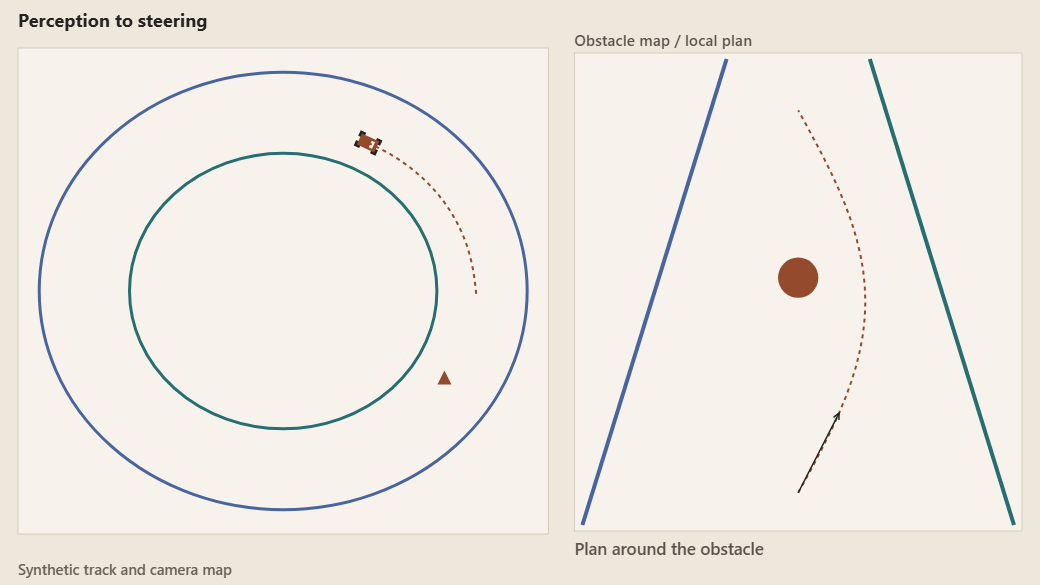
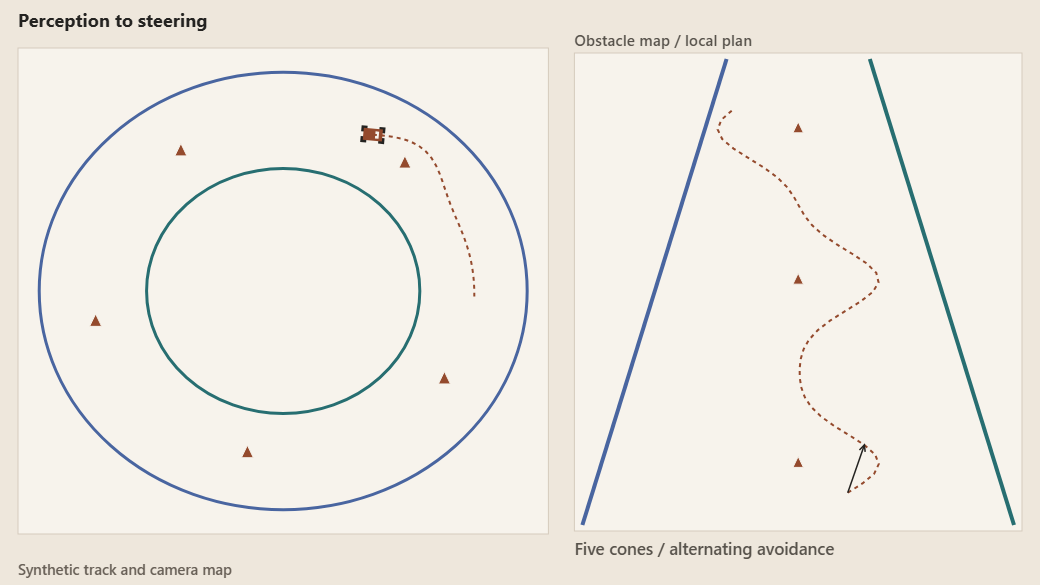
Save racer background refinements and WSL build support

diff --git a/assets/js/figures/rc-racer.js b/assets/js/figures/rc-racer.js
@@ -2,18 +2,18 @@
 (function(){
   'use strict';var D=Fig.diagram;
   Fig.register('rc-racer',{
-    config:{mobileAspect:.9,stillAt:4},
-    setup:function(f){f.state.cone=true;f.button('Remove the cone',function(b){f.state.cone=!f.state.cone;b.textContent=f.state.cone?'Remove the cone':'Add the cone';f.redraw();});},
+    config:{mobileAspect:.9,stillAt:4,cones:[{phase:.09,side:1},{phase:.28,side:-1},{phase:.47,side:1},{phase:.66,side:-1},{phase:.86,side:1}]},
+    setup:function(f){f.state.cone=true;f.button('Remove the cones',function(b){f.state.cone=!f.state.cone;b.textContent=f.state.cone?'Remove the cones':'Add the cones';f.redraw();});},
     reset:function(){},
     draw:function(f,t){
       var c=f.ctx,C=f.c,narrow=f.w<480;D.start(f,'Perception to steering');
       var top=48,trackH=narrow?f.h*.42:f.h-99,trackW=narrow?f.w-36:f.w*.51;
       var x=18,y=top,w=trackW,h=trackH;
       D.box(f,x,y,w,h,C.line,C.bg);
-      function path(q,base){var a=q*Math.PI*2,d=((q-.09+.5)%1+1)%1-.5,k=1+(!base&&f.state.cone?.14*Math.exp(-d*d/.003):0);return {x:x+w*.5+Math.cos(a)*w*.36*k,y:y+h*.5+Math.sin(a)*h*.34*k};}
-      [1,.63].forEach(function(k,i){c.beginPath();c.ellipse(x+w*.5,y+h*.5,w*.46*k,h*.45*k,0,0,Math.PI*2);c.strokeStyle=i?C.signal:C.third;c.lineWidth=3;c.stroke();});
-      var cone=path(.09,true);
-      if(f.state.cone){c.beginPath();c.moveTo(cone.x,cone.y-9);c.lineTo(cone.x-7,cone.y+5);c.lineTo(cone.x+7,cone.y+5);c.closePath();c.fillStyle=C.accent;c.fill();}
+      function path(q,base){var a=q*Math.PI*2,k=1;if(!base&&f.state.cone)f.cfg.cones.forEach(function(cone){var d=((q-cone.phase+.5)%1+1)%1-.5;k+=cone.side*.13*Math.exp(-d*d/.0016);});return {x:x+w*.5+Math.cos(a)*w*.36*k,y:y+h*.5+Math.sin(a)*h*.34*k};}
+      function drawCone(p,size){c.beginPath();c.moveTo(p.x,p.y-size);c.lineTo(p.x-size*.75,p.y+size*.55);c.lineTo(p.x+size*.75,p.y+size*.55);c.closePath();c.fillStyle=C.accent;c.fill();c.strokeStyle=C.bg;c.lineWidth=1;c.stroke();}
+      [1,.56].forEach(function(k,i){c.beginPath();c.ellipse(x+w*.5,y+h*.5,w*.46*k,h*.45*k,0,0,Math.PI*2);c.strokeStyle=i?C.signal:C.third;c.lineWidth=3;c.stroke();});
+      if(f.state.cone)f.cfg.cones.forEach(function(cone){drawCone(path(cone.phase,true),narrow?5:8);});
       var q=(t/12+.49)%1,car=path(q),next=path(q+.01);D.car(f,car.x,car.y,Math.atan2(next.y-car.y,next.x-car.x),narrow?.8:1.2);
       var planned=[];for(var i=0;i<27;i++){var p=path(q+i*.007);planned.push(p);}D.line(f,planned,C.accent,2,true);
       var px=narrow?18:x+w+26,py=narrow?top+h+30:top+5,pw=narrow?f.w-36:f.w-px-18,ph=narrow?f.h-py-25:h-8;
@@ -22,10 +22,11 @@
       // Camera-space boundaries widen toward the vehicle, not a race simulation.
       D.line(f,[{x:px+pw*.34,y:py+6},{x:px+8,y:py+ph-6}],C.third,4);
       D.line(f,[{x:px+pw*.66,y:py+6},{x:px+pw-8,y:py+ph-6}],C.signal,4);
-      if(f.state.cone)D.dot(f,px+pw*.5,py+ph*.47,Math.max(5,pw*.045),C.accent);
-      var curve=[];for(i=0;i<=24;i++){var u=i/24;curve.push({x:px+pw*(.5+(f.state.cone?.15:0)*Math.sin(u*Math.PI)),y:py+ph*(.92-u*.80)});}D.line(f,curve,C.accent,2,true);
+      var ahead=f.state.cone?f.cfg.cones.map(function(cone){return {distance:((cone.phase-q)%1+1)%1,side:cone.side};}).filter(function(cone){return cone.distance<.48;}):[];
+      ahead.forEach(function(cone){drawCone({x:px+pw*.5,y:py+ph*(.92-cone.distance/.48*.8)},narrow?4:7);});
+      var curve=[];for(i=0;i<=40;i++){var u=i/40,offset=0;ahead.forEach(function(cone){var d=u-cone.distance/.48;offset+=cone.side*.18*Math.exp(-d*d/.012);});curve.push({x:px+pw*(.5+offset),y:py+ph*(.92-u*.80)});}D.line(f,curve,C.accent,2,true);
       D.arrow(f,curve[0],curve[5],C.ink);
-      if(!narrow)D.text(f,f.state.cone?'Plan around the obstacle':'Clear corridor',px,py+ph+24,C.ink2,12);
+      if(!narrow)D.text(f,f.state.cone?'Five cones / alternating avoidance':'Clear corridor',px,py+ph+24,C.ink2,12);
       D.text(f,'Synthetic track and camera map',18,f.h-10,C.ink3,10.5);
     }
   });

diff --git a/assets/css/site.css b/assets/css/site.css
@@ -14,3 +14,5 @@ nav a[aria-current="location"]{color:var(--accent);text-decoration:underline;tex
 .preview-link{display:block;cursor:pointer}.preview-link:hover{outline:1px solid var(--accent);outline-offset:3px}
 
 .fig-input-group button[aria-pressed="true"]{background:var(--accent-soft);border-color:var(--accent);color:var(--ink)}
+
+.project-story{padding-block:3rem 5rem}.back-link{display:inline-block;font-size:.88rem;margin-bottom:2rem}.story-heading{max-width:54rem}.story-heading h1{font-size:clamp(2.6rem,5vw,4.8rem);margin-bottom:1.5rem}.story-summary{font-size:1.2rem;max-width:50ch}.story-preview{margin:3rem 0;max-width:60rem}.story-preview img{width:100%;height:auto}.story-body{max-width:65ch}.story-body h2,.story-gallery h2{font-size:clamp(1.8rem,3vw,2.3rem);margin:2.8rem 0 1rem}.story-body p{margin-bottom:1.2rem}.story-gallery{margin-top:3rem;border-top:1px solid var(--line);max-width:60rem}.story-gallery figure{margin:2rem 0}.story-gallery img{width:100%;height:auto}

diff --git a/assets/js/site.js b/assets/js/site.js
@@ -3,7 +3,8 @@
   var links = Array.from(header.querySelectorAll('nav a'));
   var sections = links.map(function(link) { return document.getElementById(link.hash.slice(1)); });
   function updateLocation() {
-    var edge = header.getBoundingClientRect().bottom + 48, current = null;
+    var edge = header.getBoundingClientRect().bottom + 48;
+    var current = document.querySelector('.project-story') ? links.findIndex(function(link){return link.hash === '#projects';}) : null;
     sections.forEach(function(section, index) { if(section && section.getBoundingClientRect().top <= edge) current = index; });
     if (Math.ceil(window.scrollY + window.innerHeight) >= document.documentElement.scrollHeight - 2) current = sections.length - 1;
     links.forEach(function(link, index) { if(index === current) link.setAttribute('aria-current','location'); else link.removeAttribute('aria-current'); });

diff --git a/_layouts/base.html b/_layouts/base.html
@@ -3,7 +3,7 @@
 <head>
 <meta charset="utf-8"><meta name="viewport" content="width=device-width, initial-scale=1">
 <title>{% if page.title %}{{ page.title | escape }} ? {% endif %}{{ site.title | escape }}</title>
-<meta name="description" content="{{ site.description | escape }}">
+<meta name="description" content="{{ page.description | default: site.description | escape }}">
 <meta name="color-scheme" content="light dark">
 {% if site.url != '' %}<link rel="canonical" href="{{ page.url | absolute_url }}">{% endif %}
 <link rel="icon" href="{{ '/assets/favicon.svg' | relative_url }}" type="image/svg+xml">

diff --git a/scripts/check-output.py b/scripts/check-output.py
@@ -40,3 +40,26 @@ for video in ['https://www.youtube.com/watch?v=fXM8YLXXC4w','https://www.youtube
  assert video in page.urls,f'Missing supplied demo: {video}'
 assert (root/'404.html').is_file()
 print(f'PASS: {root}; {len(page.urls)} local/external URLs inspected; all sections, IDs, local resources and exclusions valid')
+
+# Standalone background pages must work with either hosting prefix too.
+parsed = {}
+for html in root.rglob('*.html'):
+ document = Page(); document.feed(html.read_text(encoding='utf-8'))
+ assert len(document.ids) == len(set(document.ids)), f'Duplicate IDs: {html}'
+ parsed[html.resolve()] = document
+for html, document in parsed.items():
+ for url in document.urls:
+  u = urlsplit(url)
+  if u.scheme or u.netloc: continue
+  if not u.path: target = html
+  else:
+   assert u.path.startswith(base+'/'), f'Wrong subpath in {html}: {url}'
+   target = root / unquote(u.path[len(base):].lstrip('/'))
+   if target.is_dir(): target = target/'index.html'
+   assert target.is_file(), f'Missing local URL in {html}: {url}'
+  if u.fragment and target.resolve() in parsed:
+   assert unquote(u.fragment) in parsed[target.resolve()].ids, f'Missing anchor in {html}: {url}'
+assert (root/'projects/rc-racer/index.html').is_file()
+assert (root/'projects/baseball-catcher/index.html').is_file()
+assert not any('drbenham.website' in url for document in parsed.values() for url in document.urls)
+print(f'PASS: local resources and cross-page anchors in {len(parsed)} generated HTML pages')

diff --git a/README.md b/README.md
@@ -27,7 +27,7 @@ No Node build or frontend framework is required. Generated `_site`, `_site-subpa
 
 - `_data/profile.yml`: introduction, biography, portrait path, resume path, social links (`title`, `url`) and contact URL (including `mailto:` if appropriate). Blank values show honest placeholders.
 - `research`, `experience`, `education`, `awards`, `skills` are lists of records with `title`, optional `date`, and `description`. Populating them replaces placeholders without template changes. Preserve the section list and IDs to retain navigation/deep links.
-- `_projects`, `_publications`: one Markdown document per work, ordered newest first by `year`, with numeric `order` breaking ties. Collections render into the homepage, with no standalone work pages.
+- `_projects`, `_publications`: one Markdown document per work, ordered newest first by `year`, with numeric `order` breaking ties. Collections render into the homepage. The racer additionally has a standalone background page under `projects/rc-racer.md`.
 - Work metadata preserves the reference field names: `authors`, `venue`, `year`, `link`, `link_label`, `links` (`text`, `url`, `note`), `figure` (fallback path), `fig`, `fig_aspect`, `fig_label`, `fig_caption`, `fig_illustrative`, `about` or `abstract`, and `first_author`. Added fields are `order` and `summary` (a short project-level description).
 - Longer prose can go in the Markdown body. Keep author order and equal-contribution markers. Emphasize Ashton without dropping shared credit. Do not invent individual roles or personal credentials.
 - Work deep links: `#work-bellhop`, `#work-wilie`, `#work-ghost-modulation`, `#work-sss`; disclosure links start with `#details-` and the same slug.
@@ -69,6 +69,16 @@ All new figures have exported, checked-in PNG fallback images under `assets/figu
 The hand figure uses a single connected open-hand mesh with tapered, articulated fingers, a thumb, palm and wrist. `scripts/generate-hand-mesh.py` creates `assets/js/figures/hand-mesh.js` using only Python's standard library, and validates watertight edges and a single connected component. This is original illustrative geometry; it is not a scan or the report's recovered model.
 
 The Canvas renderer interpolates vertex lighting through a reusable depth buffer, avoiding visible polygon seams. Mesh data is loaded once, only when the hand figure is present. `node scripts/browser-hand.cjs` checks the four stages at 375/768/1440 in both themes, repeated controls, reduced motion and the single local Report link. Add `--write-fallback` to refresh only the hand's PNG after an intentional mesh change. The external Original report resource was removed at the owner's request; the local PDF is retained.
+
+## Racer background and image gallery
+
+`projects/rc-racer.md` is the editable draft at `/projects/rc-racer/`, using `_layouts/project-background.html`. Its homepage resource link opens the local page, while the existing preview/title still opens the interactive disclosure. The background page returns to the correct homepage project. The demo remains a normal external link and was not opened during this revision. All external Derek-site background links were removed according to the owner's preference.
+
+Five configured cones in `rc-racer.js` make the schematic path alternate inside/outside; the local planning panel shows upcoming obstacles. The single toggle removes/adds all cones. The static racer PNG was regenerated.
+
+Original source access now works through curl. Five original images are stored in `assets/images/rc-racer/`, with `path`, `width`, `height`, `alt` and `caption` in `_data/rc_racer.yml`. The gallery keeps native image sizes, while the animation still remains explicitly illustrative. The expanded draft covers perception, planning, recovery and source-reported race results; Derek's individual planning work stays credited. The owner's individual-role details and remaining teammate name still need editing. Fresh Jekyll/browser verification of the image import is pending in the current Linux environment; see VALIDATION.md.
+
+`node scripts/browser-racer.cjs` verifies the five-cone toggle, repeated controls, local background navigation, return link, media preferences and six viewport/theme combinations. `--write-fallback` intentionally refreshes the racer PNG only. Output checks cover every generated HTML page and its cross-page anchors at root and subpath prefixes.
 
 
 ## Catcher background and two-model figure

diff --git a/IMPLEMENTATION_PLAN.md b/IMPLEMENTATION_PLAN.md
@@ -170,6 +170,25 @@ All four new project entries and original Canvas explanations are implemented, b
 
 The user requested a more recognizable hand mesh and removal of the external Original report link. Replace the initial fist assembled from ellipsoids with one continuous illustrative open hand, including palm, four fingers, thumb and wrist. Preserve the four-stage pipeline and explain that it is designed geometry rather than a recovered model. Use smooth surface shading, update the static hand fallback, and retain only the local Report resource. This revision is authorized for local implementation and a checkpoint commit under the standing commit instruction.
 
+### Racer expansion and local background page
+
+The user authorized more cones in the racer animation and a separate local project-background page with a first-draft account and original imagery from Derek's source, to be refined later. This supersedes the v1 restriction against standalone project pages for this project. Keep the homepage work entry and disclosure, add `/projects/rc-racer/`, replace only the racer's external Project background resource with that local URL, and preserve the owner's YouTube demo link without opening it.
+
+Five cones and alternating avoidance make the schematic track more varied. Original image import is blocked: the authorized source request to `https://drbenham.website/ecen_racer` returns "Unable to connect to the remote server." Do not bypass this restriction. The background page uses the already retrieved project description for a limited paraphrased draft, an explicitly illustrative local animation still, and a visible original-image placeholder. `_data/rc_racer.yml` can hold local image paths, alt text and captions when the source images are available. No personal contribution claims are copied from Derek's first-person account.
+
+External reference access is now limited to `https://kitras.dev` and `https://drbenham.website`. Other external sites/repositories require user permission before access. Existing external resource links may remain as links without being accessed. No push or publication authorized.
+
+The user's preference against linking to Derek's website also removes the remaining external background links on Visual Odometry and Robot Baseball Catcher. Their demo links and project content are retained; no new background pages are created for those works in this revision.
+
+
+### Racer source import — curl access restored
+
+On November 1, 2026, the owner authorized curl as a fallback after the web retrieval tool failed. `curl -vL --max-time 15 https://drbenham.website/ecen_racer -o /tmp/ecen_racer.html` returned HTTP 200. The full page was read and its five original project images downloaded from the same authorized host into `assets/images/rc-racer/`. This supersedes the earlier source-access blocker. The local background page now describes perception, planning, recovery and source-reported team race results. Derek's individually described planning work remains explicitly credited; Ashton's individual role and the third teammate's name remain pending. No analytics, external site styling or unrelated images were imported.
+
+Image formats/dimensions and local gallery paths were checked; the gallery preserves native image sizes and descriptive alternatives. The browser check now expects five decoded original images instead of an empty placeholder. Fresh strict Jekyll builds and browser review are pending in this Linux session: required gems are absent, and Windows Ruby/Chrome fail to launch through WSL (`UtilBindVsockAnyPort: socket failed`). Previous Windows verification does not certify this update. No push or publication performed.
+
+Additional local checks passed: the actual Liquid layout and Kramdown Markdown render at root and `/portfolio-check` using locally available pure-Ruby libraries; all five original image URLs are correctly prefixed and the empty-gallery placeholder is absent. PNG decoding, recorded dimensions, alt text/captions and browser-check JavaScript syntax pass. This isolated render is not a full Jekyll build or browser review.
+
 
 ### Approved catcher refinement and local background
 

diff --git a/VALIDATION.md b/VALIDATION.md
@@ -49,6 +49,22 @@ The first-draft disconnected-looking ellipsoids were replaced with one continuou
 
 All four stages pass at 375/768/1440 in both themes (24 captures), with no page overflow or JavaScript errors. Selected mobile/desktop captures were visually reviewed. Reopening/restarting does not duplicate controls, and reduced motion shows the still at 13 seconds. Average measured redraw was approximately 5 ms on this host in the dedicated browser check; this is a local timing sample, not a device-wide performance guarantee. A refreshed hand PNG supplies the static fallback. Root/subpath strict builds and URL checks pass. The resource list contains only the local PDF link; the external Original report link is absent. Other projects and their assets were not changed.
 
+## Racer cones and background page
+
+- Five cones, alternating avoidance, upcoming-cone map, plural add/remove control and refreshed racer fallback implemented. Repeated disclosure/restart cycles keep three buttons without duplication.
+- Local `/projects/rc-racer/` draft replaces the external racer background destination; remaining external background links to Derek's site were also removed. Existing YouTube demo destinations remain unchanged and were not accessed. The local page retains team credit, an illustrative still, body sections and a configurable empty gallery.
+- Headless Chrome checks pass at 375/768/1440 in both themes for animation and background-page overflow, navigation to the local page and back to the correct project, no JavaScript errors and reduced-motion stills. Screenshots of the racer and page were visually inspected. Root/subpath strict builds and local-resource/anchor checks cover all three generated HTML pages (home, background, 404).
+- Original-image import remains incomplete because the authorized source download failed: `Invoke-WebRequest https://drbenham.website/ecen_racer` -> "Unable to connect to the remote server." The page explicitly leaves original project images to be added. No bypass, unapproved host/repository access or fabricated source photographs. Source-based prose uses the previously retrieved description and does not assign Derek's individual work to Ashton.
+
+
+### Racer source import — curl access restored
+
+On November 1, 2026, the owner authorized curl as a fallback after the web retrieval tool failed. `curl -vL --max-time 15 https://drbenham.website/ecen_racer -o /tmp/ecen_racer.html` returned HTTP 200. The full page was read and its five original project images downloaded from the same authorized host into `assets/images/rc-racer/`. This supersedes the earlier source-access blocker. The local background page now describes perception, planning, recovery and source-reported team race results. Derek's individually described planning work remains explicitly credited; Ashton's individual role and the third teammate's name remain pending. No analytics, external site styling or unrelated images were imported.
+
+Image formats/dimensions and local gallery paths were checked; the gallery preserves native image sizes and descriptive alternatives. The browser check now expects five decoded original images instead of an empty placeholder. Fresh strict Jekyll builds and browser review are pending in this Linux session: required gems are absent, and Windows Ruby/Chrome fail to launch through WSL (`UtilBindVsockAnyPort: socket failed`). Previous Windows verification does not certify this update. No push or publication performed.
+
+Additional local checks passed: the actual Liquid layout and Kramdown Markdown render at root and `/portfolio-check` using locally available pure-Ruby libraries; all five original image URLs are correctly prefixed and the empty-gallery placeholder is absent. PNG decoding, recorded dimensions, alt text/captions and browser-check JavaScript syntax pass. This isolated render is not a full Jekyll build or browser review.
+
 
 ## Catcher models and background page — WSL verification
 

diff --git a/_projects/rc-racer.md b/_projects/rc-racer.md
@@ -8,8 +8,8 @@ figure_family: engineering
 figure: assets/figures/rc-racer.png
 fig: rc-racer
 fig_aspect: 16/9
-fig_label: An RC car navigates colored track boundaries and a cone. A camera view becomes an obstacle map with a planned steering path.
-fig_caption: '<strong>From a camera frame to a steering decision.</strong> Colored boundaries and a cone are segmented into an obstacle map. A clearance-based path bends around the cone as the car follows a schematic track. Toggle the cone to compare the plans. This figure explains the team project at a high level; it is not the original controller, recorded race or a performance benchmark.'
+fig_label: An RC car navigates colored track boundaries and five cones. A camera view becomes an obstacle map with a planned steering path.
+fig_caption: '<strong>From a camera frame to a steering decision.</strong> Colored boundaries and five cones are segmented into an obstacle map. The schematic path alternates around the obstacles, and the local view shows upcoming cones. Toggle the cones to compare the plans. This figure explains the team project at a high level; it is not the original controller, recorded race or a performance benchmark.'
 fig_illustrative: true
 about: A class team programmed an RC car to navigate a track with colored pool-noodle boundaries and traffic cones. The platform combined a RealSense camera and onboard Nvidia TX1 computing. Image processing separated colored obstacles from the driving area, and lightweight planning methods produced steering commands under limited computing capacity.
 year: 2022
@@ -18,7 +18,7 @@ links:
 - text: Demo
   url: https://www.youtube.com/watch?v=24IoHJpjovY&feature=youtu.be
 - text: Project background
-  url: https://drbenham.website/ecen_racer
+  url: /projects/rc-racer/
 ---
 
 The team compared navigation approaches and integrated their work into a racing system. The accompanying figure is an explanation of the perception-to-steering idea, not a reproduction of any teammate's individual implementation.

diff --git a/AGENTS.md b/AGENTS.md
@@ -8,7 +8,7 @@
 
 ## Product and architecture
 
-- Owner: Ashton Palacios. Audience: engineering employers. Single scrolling portfolio with Projects and Publications and visible future personal/resume sections.
+- Owner: Ashton Palacios. Audience: engineering employers. Single scrolling portfolio with Projects and Publications, visible future personal/resume sections, and a local racer background page.
 - Jekyll 4.4.1, GitHub Pages via GitHub Actions, reusable Liquid layouts/includes, Markdown collections and YAML data, plain CSS, minimal vanilla JavaScript. No SPA framework or Node build pipeline.
 - Independent ivory/charcoal/copper design, code-first, responsive desktop/mobile, accessible System/Light/Dark mode with persisted explicit preferences.
 - Use the installed `.agents/skills/impeccable/SKILL.md` for design work. Follow user constraints over conflicting skill workflow instructions; do not create implementation artifacts during documentation-only tasks.
@@ -30,3 +30,7 @@
 - Inspect rendered layouts at 375px, 768px and 1440px in both themes. Check keyboard/focus, reduced motion, fallbacks, deep links and repeated figure interactions. Report limits honestly.
 - Production deployment is manual initially. Do not silently deploy on source pushes or inherit the reference's CNAME/analytics configuration.
 - Keep documentation synchronized with approved changes. Ask only about material missing decisions; do not re-ask settled preferences.
+
+## External access
+
+- External reference access is limited to https://kitras.dev and https://drbenham.website. Ask before accessing any other external website or repository. Preserve existing resource links without opening unapproved destinations. If a resource is inaccessible, report the error; do not bypass network restrictions.

diff --git a/_projects/visual-odometry.md b/_projects/visual-odometry.md
@@ -16,8 +16,6 @@ year: 2022
 links:
 - text: Demo
   url: https://www.youtube.com/watch?v=fXM8YLXXC4w
-- text: Project background
-  url: https://drbenham.website/vo
 ---
 
 Processing was performed offline rather than on the car's constrained onboard computer, and did not fuse IMU or wheel-odometry measurements. The source describes drift during jittery turns and compares a separate test dataset with established ground truth; the RC-car run itself did not have a complete ground-truth trajectory.
